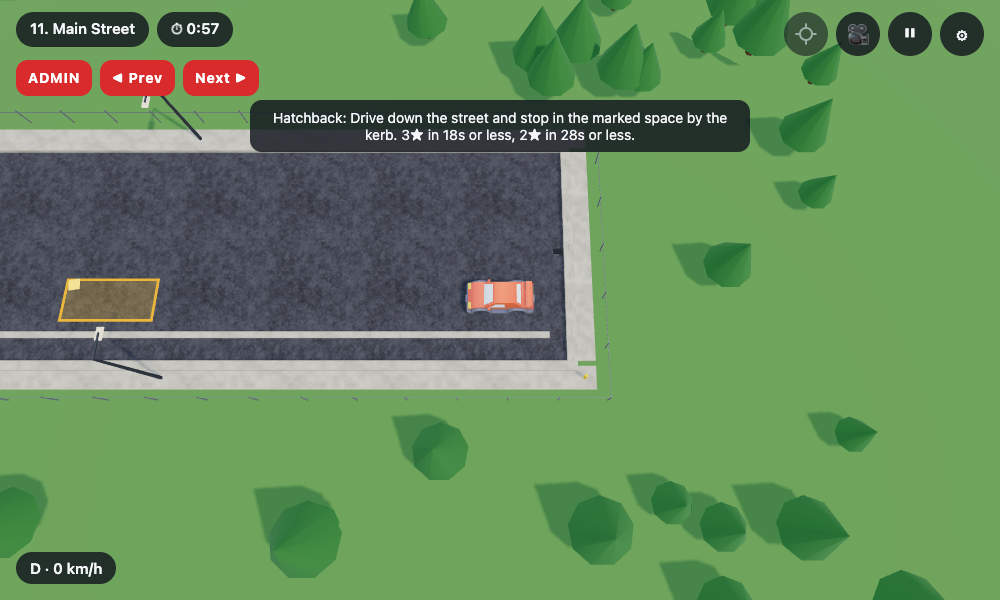
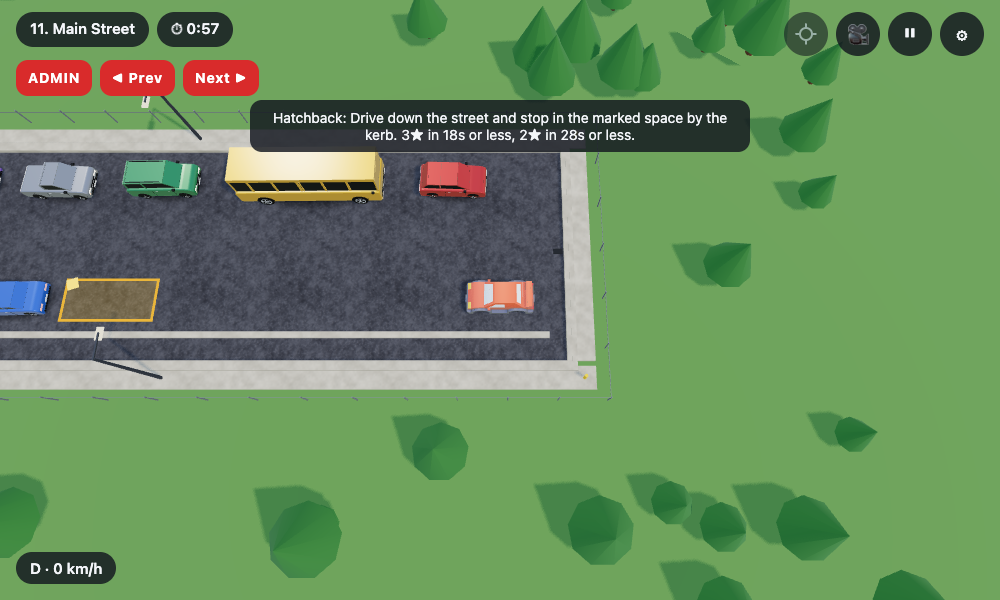
CARP-137: van and bus street cars, parked vehicles back on Main Street

Changed region(s): [[0.0, 0.24, 0.496, 0.36], [0.0, 0.45, 0.062, 0.54]]

diff --git a/src/streetCars.ts b/src/streetCars.ts
@@ -12,12 +12,10 @@ import type { StreetBody } from './layout';
  * Car space: x across (width 1.9 m), y up, z forward (length 4.2 m), the same footprint as every
  * other parked car, so collisions are unchanged.
  */
-export const STREET_W = 1.9;
-export const STREET_L = 4.2;
-const HL = STREET_L / 2;
+const DEF_W = 1.9;
+const DEF_L = 4.2;
 const BEVEL = 0.06;
 const WHEEL_Z = 1.3;
-const TYRE_R = 0.352;
 
 type Pt = [number, number]; // [z, y]
 
@@ -34,9 +32,25 @@ interface Spec {
   rails?: boolean;
   /** Open load bed behind the cab. */
   bed?: boolean;
+  /** Footprint (m); defaults to the standard parked car, 1.9 x 4.2. */
+  w?: number;
+  l?: number;
+  /** Axle positions along z and tyre radius (defaults: wheelbase 2.6, 0.352). */
+  axles?: number[];
+  tyreR?: number;
+  /** Height where the glass starts (defaults to the body's top at the doors). */
+  belt?: number;
+  /** Solid paint panels over the glass between these z values (a van's cargo area). */
+  panels?: [number, number][];
+  /** Extra vertical pillars at these z values (a bus's window frames). */
+  pillars?: number[];
+  /** A paint cap above the glass up to this height (a bus's roof). */
+  roofCap?: number;
+  /** Buses and vans: no car-style door handles and shut lines. */
+  boxy?: boolean;
 }
 
-const E = HL - BEVEL; // outline end, the bevel brings it to the full length
+const E = DEF_L / 2 - BEVEL; // outline end, the bevel brings it to the full length
 const SPECS: Record<StreetBody, Spec> = {
   sedan: {
     body: [
@@ -117,6 +131,55 @@ const SPECS: Record<StreetBody, Spec> = {
     sill: 0.4,
     rails: true,
   },
+  van: {
+    body: [
+      [-2.45, 0.42],
+      [-2.45, 1.1],
+      [-2.2, 1.14],
+      [1.6, 1.1],
+      [2.2, 1.0],
+      [2.45, 0.85],
+      [2.45, 0.42],
+    ],
+    cabin: [
+      [-2.4, 1.1],
+      [-2.4, 2.12],
+      [1.0, 2.14],
+      [1.75, 1.12],
+    ],
+    round: 0.14,
+    sill: 0.42,
+    w: 2.0,
+    l: 5.0,
+    axles: [-1.55, 1.7],
+    panels: [[-2.45, -0.6]],
+    boxy: true,
+  },
+  bus: {
+    body: [
+      [-4.44, 0.5],
+      [-4.44, 1.5],
+      [4.44, 1.5],
+      [4.44, 0.62],
+      [4.44, 0.5],
+    ],
+    cabin: [
+      [-4.4, 1.5],
+      [-4.4, 2.72],
+      [4.4, 2.72],
+      [4.4, 1.5],
+    ],
+    round: 0.16,
+    sill: 0.5,
+    w: 2.5,
+    l: 9.0,
+    axles: [-2.9, 3.1],
+    tyreR: 0.5,
+    belt: 1.5,
+    pillars: [-3.3, -1.8, -0.3, 1.2, 2.7],
+    roofCap: 3.0,
+    boxy: true,
+  },
   pickup: {
     body: [
       [-E, 0.4],
@@ -137,6 +200,11 @@ const SPECS: Record<StreetBody, Spec> = {
     bed: true,
   },
 };
+
+/** Footprint (m) of a body type: what the collision box of that parked car must be. */
+export function streetDims(kind: StreetBody): { w: number; l: number } {
+  return { w: SPECS[kind].w ?? DEF_W, l: SPECS[kind].l ?? DEF_L };
+}
 
 /** A polygon with rounded corners as a THREE.Shape. */
 function roundedShape(pts: Pt[], r: number): THREE.Shape {
@@ -249,13 +317,19 @@ interface Built {
 
 function build(kind: StreetBody): Built {
   const s = SPECS[kind];
+  const STREET_W = s.w ?? DEF_W;
+  const STREET_L = s.l ?? DEF_L;
+  const HL = STREET_L / 2;
+  const k = STREET_W / DEF_W; // lateral scale of the lamps and trim
+  const axles = s.axles ?? [-WHEEL_Z, WHEEL_Z];
+  const TYRE_R = s.tyreR ?? 0.352;
   const paintParts: THREE.BufferGeometry[] = [];
   const detail: THREE.BufferGeometry[] = [];
   const lamps: THREE.BufferGeometry[] = [];
 
   paintParts.push(profile(roundedShape(s.body, s.round), STREET_W, BEVEL));
   // Underbody and sills: keeps the gap under the car dark instead of see-through.
-  detail.push(tint(boxAt(1.66, 0.14, STREET_L - 0.3, 0, s.sill - 0.02, 0), DARK));
+  detail.push(tint(boxAt(STREET_W - 0.24, 0.14, STREET_L - 0.3, 0, s.sill - 0.02, 0), DARK));
 
   // Greenhouse: glass with paint pillars and a roof panel proud of it.
   const gw = STREET_W - 0.34;
@@ -263,14 +337,22 @@ function build(kind: StreetBody): Built {
   const glass = profile(roundedShape(cabin, 0.12), gw, 0.03);
   const pw = gw + 0.07;
   const [rb, rt, ft, fb] = cabin;
+  const belt = s.belt ?? s.body[2][1];
   paintParts.push(strut(rt, ft, 0.07, pw - 0.02, 0)); // roof
   paintParts.push(strut(fb, ft, 0.09, pw, 0)); // windscreen header / A pillars
   paintParts.push(strut(rb, rt, 0.09, pw, 0)); // C pillars / tailgate edge
   if (!s.bed) {
     const mid = (rt[0] + ft[0]) / 2 - 0.15;
     const midY = cabin[1][1] - 0.02;
-    paintParts.push(boxAt(pw, midY - s.body[2][1], 0.08, 0, (midY + s.body[2][1]) / 2 - 0.02, mid)); // B pillar
+    paintParts.push(boxAt(pw, midY - belt, 0.08, 0, (midY + belt) / 2 - 0.02, mid)); // B pillar
   }
+  for (const [z0, z1] of s.panels ?? [])
+    paintParts.push(boxAt(pw, cabin[1][1] - belt, z1 - z0, 0, (cabin[1][1] + belt) / 2, (z0 + z1) / 2));
+  for (const z of s.pillars ?? []) paintParts.push(boxAt(pw, cabin[1][1] - belt, 0.14, 0, (cabin[1][1] + belt) / 2, z));
+  if (s.roofCap)
+    paintParts.push(
+      boxAt(pw + 0.02, s.roofCap - cabin[1][1] + 0.02, STREET_L - 0.1, 0, (s.roofCap + cabin[1][1]) / 2, 0),
+    );
   if (s.rails)
     for (const sx of [-1, 1])
       detail.push(
@@ -288,13 +370,14 @@ function build(kind: StreetBody): Built {
 
   // Wheels and arches.
   const wheel = mergeGeometries(wheelParts(), false)!;
-  const archR = 0.4;
+  wheel.scale(TYRE_R / 0.352, TYRE_R / 0.352, TYRE_R / 0.352);
+  const archR = TYRE_R + 0.048;
   const wheelY = TYRE_R;
   for (const sx of [-1, 1])
-    for (const z of [-WHEEL_Z, WHEEL_Z]) {
+    for (const z of axles) {
       const w = wheel.clone();
       if (sx < 0) w.rotateY(Math.PI);
-      detail.push(w.translate(sx * 0.83, wheelY, z));
+      detail.push(w.translate(sx * (STREET_W / 2 - 0.12), wheelY, z));
       // Dark arch on the flank behind the tyre.
       const lip = Math.asin((s.sill - 0.02 - wheelY) / archR);
       const arch = new THREE.CircleGeometry(archR, 24, -lip, Math.PI + 2 * lip);
@@ -303,7 +386,7 @@ function build(kind: StreetBody): Built {
       // Arch liner: a dark half cylinder inside, so the wheel well has depth.
       const liner = new THREE.CylinderGeometry(archR - 0.03, archR - 0.03, 0.34, 20, 1, true, 0, Math.PI);
       liner.rotateZ(Math.PI / 2).rotateX(-Math.PI / 2);
-      detail.push(tint(liner.translate(sx * 0.76, wheelY, z), DARK));
+      detail.push(tint(liner.translate(sx * (STREET_W / 2 - 0.19), wheelY, z), DARK));
     }
 
   // Front: grille, lower intake, plate, headlamps.
@@ -311,27 +394,28 @@ function build(kind: StreetBody): Built {
   const frontY = (s.sill + nose) / 2;
   detail.push(tint(boxAt(0.78, 0.17, 0.05, 0, frontY + 0.06, HL + 0.005), DARK));
   detail.push(tint(boxAt(0.8, 0.02, 0.055, 0, frontY + 0.06, HL + 0.006), CHROME));
-  detail.push(tint(boxAt(1.5, 0.12, 0.06, 0, s.sill + 0.1, HL - 0.02), DARK));
+  detail.push(tint(boxAt(STREET_W - 0.4, 0.12, 0.06, 0, s.sill + 0.1, HL - 0.02), DARK));
   detail.push(tint(boxAt(0.5, 0.11, 0.02, 0, s.sill + 0.12, HL + 0.04), PLATE));
   for (const sx of [-1, 1]) {
-    lamps.push(tint(boxAt(0.4, 0.1, 0.05, sx * 0.63, nose - 0.08, HL), 0xfff3cf));
-    lamps.push(tint(boxAt(0.12, 0.06, 0.05, sx * 0.8, nose - 0.2, HL - 0.02), 0xff9a1f));
+    lamps.push(tint(boxAt(0.4, 0.1, 0.05, sx * 0.63 * k, nose - 0.08, HL), 0xfff3cf));
+    lamps.push(tint(boxAt(0.12, 0.06, 0.05, sx * 0.8 * k, nose - 0.2, HL - 0.02), 0xff9a1f));
   }
   // Rear: tail lamps, plate, bumper.
   const tail = s.body[1][1];
-  for (const sx of [-1, 1]) lamps.push(tint(boxAt(0.46, 0.12, 0.05, sx * 0.64, tail - 0.1, -HL), 0xc4161c));
+  for (const sx of [-1, 1]) lamps.push(tint(boxAt(0.46, 0.12, 0.05, sx * 0.64 * k, tail - 0.1, -HL), 0xc4161c));
   detail.push(tint(boxAt(0.5, 0.11, 0.02, 0, tail - 0.28, -HL - 0.03), PLATE));
-  detail.push(tint(boxAt(1.6, 0.1, 0.06, 0, s.sill + 0.1, -HL + 0.02), DARK));
+  detail.push(tint(boxAt(STREET_W - 0.3, 0.1, 0.06, 0, s.sill + 0.1, -HL + 0.02), DARK));
 
   // Flanks: door shut lines, handles, mirrors.
-  const beltY = s.body[2][1];
+  const beltY = belt;
   for (const sx of [-1, 1]) {
     const x = sx * (STREET_W / 2 + 0.003);
-    for (const z of [-0.45, 0.85])
+    for (const z of s.boxy ? [] : [-0.45, 0.85])
       detail.push(tint(boxAt(0.012, beltY - s.sill - 0.08, 0.012, x, (beltY + s.sill) / 2, z), DARK));
-    for (const z of [-0.2, 0.55]) detail.push(tint(boxAt(0.02, 0.025, 0.16, x + sx * 0.005, beltY - 0.1, z), CHROME));
-    detail.push(tint(boxAt(0.14, 0.1, 0.17, sx * (STREET_W / 2 + 0.04), cabin[0][1] + 0.12, cabin[3][0] - 0.28), DARK)); // mirror
-    detail.push(tint(boxAt(0.02, 0.012, 3.5, sx * 0.88, s.sill + 0.06, 0), CHROME)); // sill trim
+    for (const z of s.boxy ? [] : [-0.2, 0.55])
+      detail.push(tint(boxAt(0.02, 0.025, 0.16, x + sx * 0.005, beltY - 0.1, z), CHROME));
+    detail.push(tint(boxAt(0.14, 0.1, 0.17, sx * (STREET_W / 2 + 0.04), belt + 0.12, cabin[3][0] - 0.28), DARK)); // mirror
+    detail.push(tint(boxAt(0.02, 0.012, STREET_L - 0.7, sx * (STREET_W / 2 - 0.07), s.sill + 0.06, 0), CHROME)); // sill trim
   }
 
   const paint = mergeGeometries(
@@ -405,7 +489,7 @@ function sharedParts(): NonNullable<typeof shared> {
       polygonOffsetUnits: -2,
     }),
   );
-  const blobGeo = keep(new THREE.PlaneGeometry(STREET_W + 0.9, STREET_L + 0.9).rotateX(-Math.PI / 2));
+  const blobGeo = keep(new THREE.PlaneGeometry(1, 1).rotateX(-Math.PI / 2));
   const blob = new THREE.Mesh(blobGeo, blobMat);
   blob.position.y = 0.012;
   blob.userData.noShadow = true;
@@ -434,6 +518,9 @@ export function buildStreetCar(kind: StreetBody, color: number): THREE.Group {
   mesh(b.glass, sp.glass);
   mesh(b.detail, sp.detail);
   mesh(b.lamps, sp.lamps);
-  root.add(sp.blob.clone());
+  const blob = sp.blob.clone();
+  const d = streetDims(kind);
+  blob.scale.set(d.w + 0.9, 1, d.l + 0.9);
+  root.add(blob);
   return root;
 }

diff --git a/src/levels.ts b/src/levels.ts
@@ -1,5 +1,6 @@
 import { LOCATIONS } from './worlds';
-import type { ArrowDef, BayDef, FloorDef, LevelDef, LocationId, ObstacleDef, RampDef } from './layout';
+import type { ArrowDef, BayDef, FloorDef, LevelDef, LocationId, ObstacleDef, RampDef, StreetBody } from './layout';
+import { streetDims } from './streetCars';
 
 /** A level as written below: its location is filled in from `LOCATION_OF`. */
 type RawLevel = Omit<LevelDef, 'location'>;
@@ -821,6 +822,19 @@ const MASTER_LEVELS: RawLevel[] = [
   },
 ];
 
+/** A parked street car (src/streetCars.ts): body type and colour chosen by hand, collision box of the body's own size. */
+function streetCar(
+  body: StreetBody,
+  x: number,
+  z: number,
+  yawDeg: number,
+  color: number,
+  heading = PI / 2,
+): ObstacleDef {
+  const { w, l } = streetDims(body);
+  return { kind: 'car', x, z, rot: heading + (yawDeg * PI) / 180, color, body, w, l };
+}
+
 /** Main Street: a plain road with a kerb along one side. Pull up and stop in the marked space by the kerb. */
 const STREET_LEVEL: RawLevel = {
   id: 'main-street',
@@ -832,7 +846,19 @@ const STREET_LEVEL: RawLevel = {
   bothWays: true,
   time: 60,
   stars: { three: 18, two: 28 },
-  obstacles: [{ kind: 'wall', x: 0, z: -5.4, w: 46, l: 0.4, h: 0.25 }],
+  obstacles: [
+    { kind: 'wall', x: 0, z: -5.4, w: 46, l: 0.4, h: 0.25 },
+    // Kerb side, past the space: a sedan and a van, a little off true and unevenly spaced.
+    streetCar('sedan', 9.6, -3.3, 1.5, 0x2f6fde),
+    streetCar('van', 16.2, -3.2, -1, 0xe8e8e8),
+    // Far side of the street, facing the other way.
+    streetCar('bus', -8, 4.5, 0.5, 0xe9b000, -PI / 2),
+    streetCar('hatchback', -17, 4.6, -1.5, 0xc8322b, -PI / 2),
+    streetCar('suv', 1.5, 4.6, 1, 0x2e8b57, -PI / 2),
+    streetCar('pickup', 8.2, 4.5, -1, 0x8a8f98, -PI / 2),
+    streetCar('wagon', 14.5, 4.6, 2, 0x7a4fd0, -PI / 2),
+    streetCar('sedan', 20.4, 4.6, -1.5, 0x222428, -PI / 2),
+  ],
 };
 
 const RAW_LEVELS: RawLevel[] = [

diff --git a/src/layout.ts b/src/layout.ts
@@ -2,7 +2,7 @@ import type { OBB } from './collision';
 import { CAR_L, CAR_W } from './config';
 
 /** Body types of the code-drawn street cars (src/streetCars.ts). */
-export type StreetBody = 'sedan' | 'hatchback' | 'wagon' | 'suv' | 'pickup';
+export type StreetBody = 'sedan' | 'hatchback' | 'wagon' | 'suv' | 'pickup' | 'van' | 'bus';
 
 export type ObstacleKind = 'car' | 'wall' | 'cone' | 'pillar';
 
@@ -119,7 +119,7 @@ export interface LevelDef {
 export function obstacleDims(o: ObstacleDef): { w: number; l: number; h: number } {
   switch (o.kind) {
     case 'car':
-      return { w: CAR_W, l: CAR_L, h: 1.5 };
+      return { w: o.w ?? CAR_W, l: o.l ?? CAR_L, h: 1.5 };
     case 'cone':
       return { w: 0.5, l: 0.5, h: 0.75 };
     case 'pillar':
